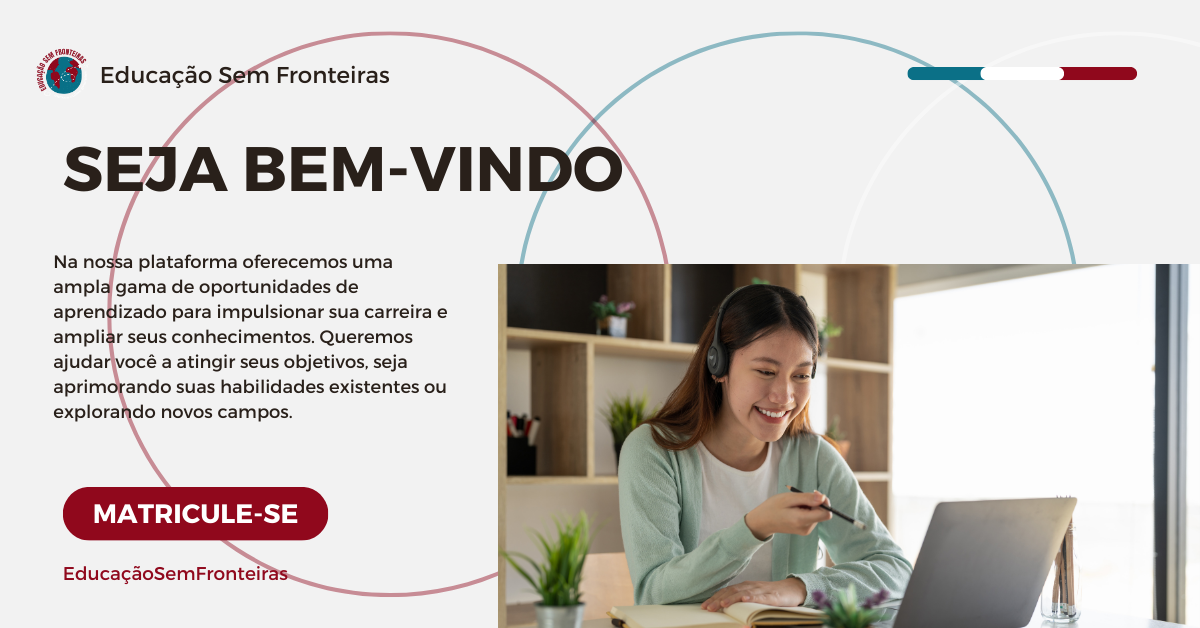
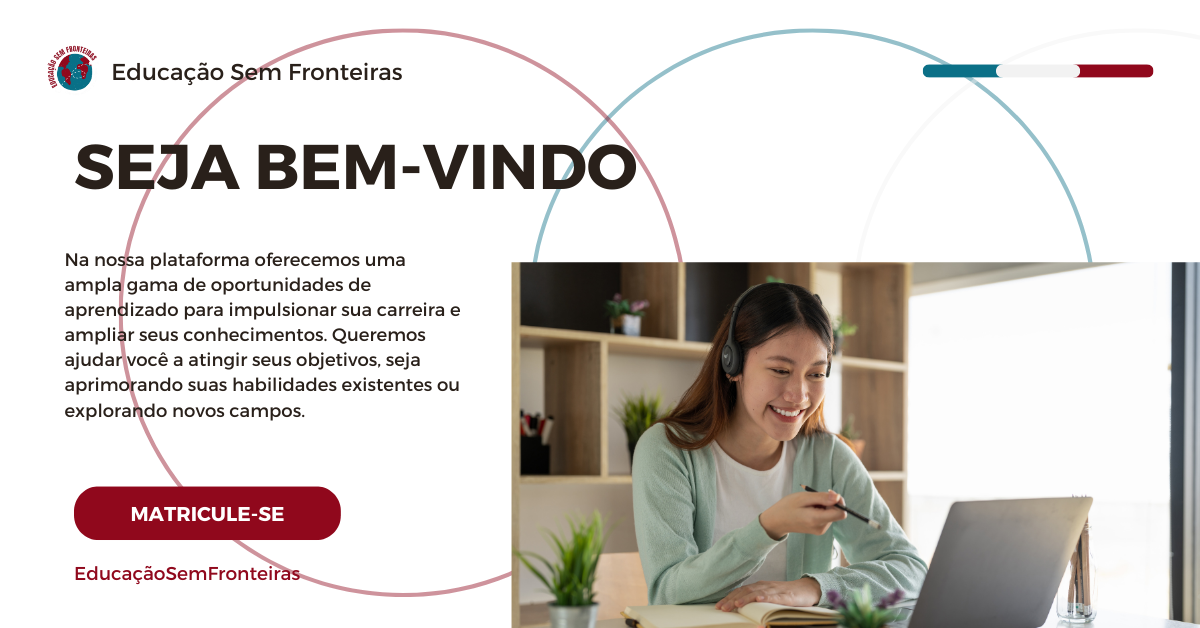
update

diff --git a/home.html b/home.html
@@ -37,22 +37,68 @@
         
     </header>
 
+    <section>
+
+      <div class="d-flex align-items-center mt-5 mr-4">
+        <img src="images/logo_plataforma_whiteFooter.png" alt="Logo_Plataforma" width="3%" height="3%">
+        <h6>Educação Sem Fronteiras</h6>
+      </div>
+
+      <div>
+        <h1 class="">Seja Bem-Vindo</h1>
+      </div>
+
+      <div>
+        <div class="d-flex align-items-center gap-3 ml-2">
+          <p>Na nossa plataforma de cursos on-line, oferecemos uma ampla gama de oportunidades de aprendizado para impulsionar sua carreira e ampliar seus conhecimentos. Queremos ajudar você a atingir seus objetivos, seja aprimorando suas habilidades existentes ou explorando novos campos.</p>
+
+          <img src="images/estudante.jpg" alt="">
+        </div>
+        
+        <button>MATRICULE-SE</button>
+      </div>
+      
+    </section>
+
     <section class="d-flex justify-content-center mt-5 mb-5">
       <div id="carouselExampleSlidesOnly" class="carousel slide" data-bs-ride="carousel">
         <div class="carousel-inner">
           <div class="carousel-item active">
-            <img src="images/Educação sem Fronteiras.png" class="d-block" alt="..." width="900px">
+            <img src="images/Educação sem Fronteiras.png" class="d-block" alt="Educação Sem Fronteiras" width="900px">
           </div>
           <div class="carousel-item">
-            <img src="images/Educação sem Fronteiras.png" class="d-block" alt="..." width="900px">
+            <img src="images/NossosCursos.png" class="d-block" alt="NossosCursos" width="900px">
           </div>
           <div class="carousel-item">
-            <img src="images/Educação sem Fronteiras.png" class="d-block" alt="..." width="900px">
+            <img src="images/AprendaMais.png" class="d-block" alt="AprendaMais" width="900px">
           </div>
         </div>
       </div>
     </section>
 
+    <!-- <section>
+      <div id="carouselExampleControls" class="carousel slide" data-ride="carousel">
+        <div class="carousel-inner">
+          <div class="carousel-item active">
+            <img class="d-block w-100" src="images/AprendaMais.png" alt="Primeiro Slide">
+          </div>
+          <div class="carousel-item">
+            <img class="d-block w-100" src="images/Educação sem Fronteiras.png" alt="Segundo Slide">
+          </div>
+          <div class="carousel-item">
+            <img class="d-block w-100" src="images/NossosCursos.png" alt="Terceiro Slide">
+          </div>
+        </div>
+        <a class="carousel-control-prev" href="#" role="button" data-slide="prev">
+          <span class="carousel-control-prev-icon" aria-hidden="true"></span>
+          <span class="sr-only">Anterior</span>
+        </a>
+        <a class="carousel-control-next" href="#" role="button" data-slide="next">
+          <span class="carousel-control-next-icon" aria-hidden="true"></span>
+          <span class="sr-only">Próximo</span>
+        </a>
+      </div>
+    </section> -->
 
 
     <footer class="text-center text-lg-start bg-dark text-light p-4">
@@ -100,13 +146,13 @@
                 <!-- TITULO DA QUARTA COLUNA  -->
                 <h6 class="text-uppercase fw-bold mb-4">SIGA-NOS!</h6>
                 <!-- IMAGEM REFERENTE AS REDES SOCIAIS  -->
-                <p><img class="redes" src="images/redessociais.png" alt=""></p>
+                <p><img class="redes" src="images/RedesSociais.png" alt="RedesSociais"></p>
               </div>
             </div>
         </div>
         </section>
         <div class="text-center">
-            <p><img src="images/logo_plataforma_whiteFooter.png" alt="" width="10%" height="10%"></p>
+            <p><img src="images/logo_plataforma_whiteFooter.png" alt="Logo Logo_Plataforma" width="10%" height="10%"></p>
         </div>
         <div class="text-center p-4" style="background-color: rgba(0, 0, 0, 0.05);">
           © 2023 Educação sem Fronteiras — Termos de uso • Politica de privacidade • Política de cookies • LGPD
